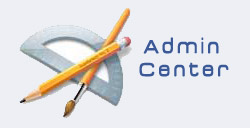
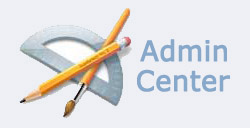
Changed graphics and css
git-svn-id: https://svn.code.sf.net/p/yabb/svn@1154 5281d325-37d3-4172-b7de-bd13e9c9f870

Changed region(s): [[0.532, 0.2812, 0.924, 0.7188]]

diff --git a/branches/2.5.4/public_html/yabbfiles/Templates/Admin/default.css b/branches/2.5.4/public_html/yabbfiles/Templates/Admin/default.css
@@ -89,7 +89,7 @@ margin-right:auto;
 width:100%;
 }
 
-td,th {
+td, th {
 text-align:left;
 vertical-align:middle;
 }
@@ -646,4 +646,13 @@ font-family:Verdana, Arial, Sans-Serif;
 color:#475F79;
 background-color:#D2DBE6;
 border:thin solid #A7B8CC;
+}
+
+#StyleManager, #TempManager { 
+width:100%;
+height:350px;
+border-top: 1px inset;
+border-bottom: 1px inset;
+visibility: visible;
+display: inline;
 }